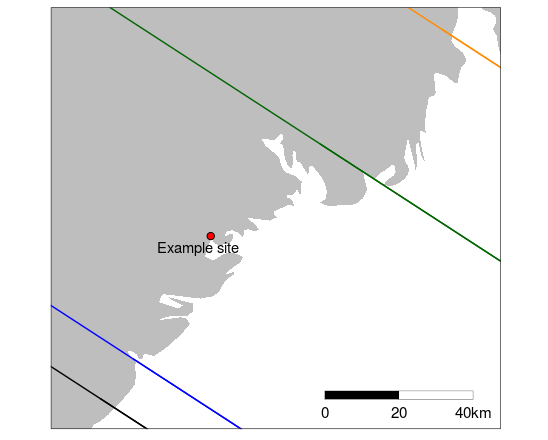
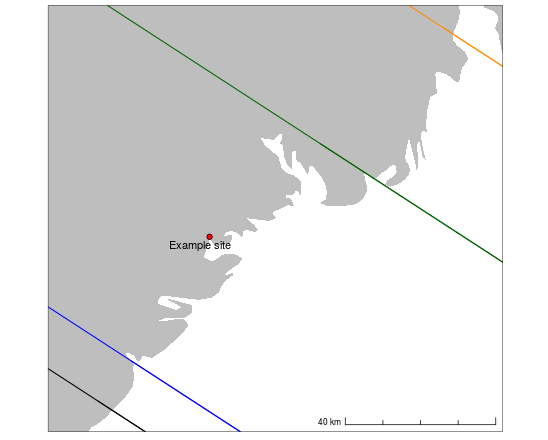
Recompiled target_plot() for paper. Updated date in NEWS.md. Resized first figure in readme

diff --git a/paper/paper.md b/paper/paper.md
@@ -87,7 +87,7 @@ marks the upper temporal limit of the package.
 ![The spatial and temporal coverage of the package. A) The location of the 
 spatial coverage in south-eastern Norway. B) The location of the isobases that 
 represent contours along which the shoreline displacement has followed the same
-trajectory. B) The displacement curves corresponding to the isobases, where the 
+trajectory. C) The displacement curves corresponding to the isobases, where the 
 temporal limits are marked with dashed lines.
 \label{fig:coverage}](../man/figures/coverage_annotated.png)
 

diff --git a/README.md b/README.md
@@ -71,7 +71,7 @@ figure, which also indicates the temporal coverage of the package.
 Note that spatial data used with the package should be set to WGS 84 /
 UTM zone 32N (EPSG:32632).
 
-<img src="man/figures/coverage.png" width="100%" style="display: block; margin: auto;" />
+<img src="man/figures/coverage.png" width="90%" height="90%" style="display: block; margin: auto;" />
 
 As human occupation in the region only occurred some time after the
 retreat of the Fennoscandian Ice Sheet, the currently oldest known sites

diff --git a/NEWS.md b/NEWS.md
@@ -1,6 +1,6 @@
 # shoredate 1.0.2
 
-## shoredate 1.0.2 (2023-05-01)
+## shoredate 1.0.2 (2023-05-02)
  - `shoredate_hdr()` and `shoreline_date()` now returns the weighted mean date.
  - `shoreline_date()` now has the parameter model, which accepts either "none" 
  or "gamma". If "none" is specified then the distance between site and shoreline
